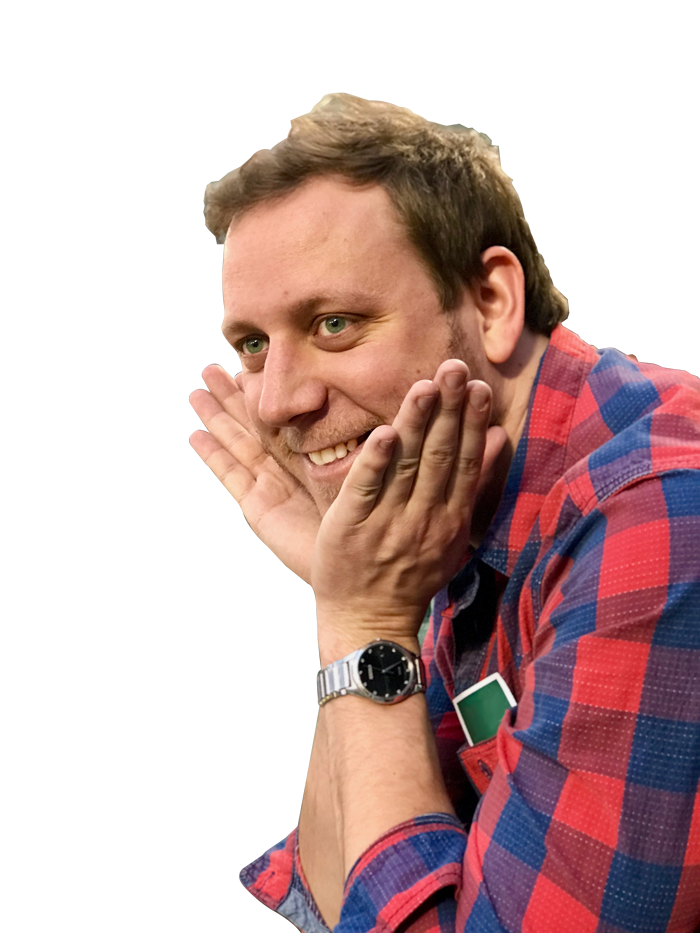
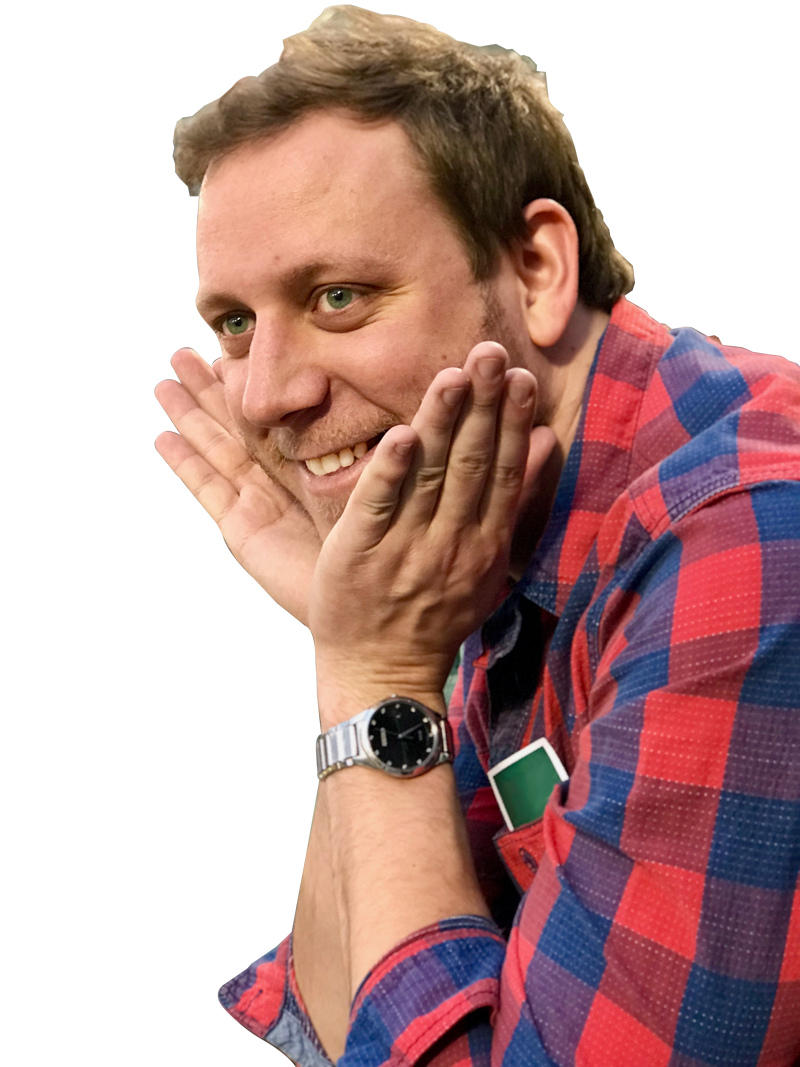
adding in about page photo

diff --git a/pages/about/index.vue b/pages/about/index.vue
@@ -1,0 +1,102 @@
+<template>
+    <div class="panel has-content" data-x-pos="-1" data-y-pos="0">
+        <HamburgerMenu />
+
+        <sectionHeader post-title="About Me" class-name="about" canvas="./animations/aboutcanvas"></sectionHeader>
+        <section class="block copy">
+            <div class="block block-width">
+                <p>Lorem ipsum dolor sit amet, consectetur adipiscing elit, sed do eiusmod tempor incididunt ut labore et dolore magna aliqua. Ut enim ad minim veniam, quis nostrud exercitation ullamco laboris nisi ut aliquip ex ea commodo consequat. Duis aute irure dolor in reprehenderit in voluptate velit esse cillum dolore eu fugiat nulla pariatur. Excepteur sint occaecat cupidatat non proident, sunt in culpa qui officia deserunt mollit anim id est laborum.</p>
+                <div class="about-me">
+                    <figure>
+                        <img src="~/assets/images/rob-erskine-is-cute.png" alt="Wow Rob Erskine is cute." class="foreground">
+                        <img src="~/assets/images/fenway-park.jpg" alt="" class="background">
+                    </figure>
+                    <figcaption>
+                        <span>Me, having the best time, watching the Boston Red Sox lose. (I am a hardcore Philadelhpia Phillies phan)</span>
+                    </figcaption>
+                </div>
+            </div>
+        </section>
+    </div>
+</template>
+
+<style lang="scss">
+section.block{
+    padding:4vw 2em;
+}
+
+div.block-width{
+    max-width: 1200px;
+    margin:0 auto;
+    overflow:hidden;
+}
+
+div.about-me{
+    background-size:cover;
+    //overflow:hidden;
+    padding:1.5em 3em;
+    position:relative;
+    max-width:40%;
+    width:100%;
+    float:right;
+    transform-style: preserve-3d;
+    -webkit-transform-style: preserve-3d;
+    transform: perspective(300px); 
+    -webkit-perspective: 300;
+    &:after{
+        content:"";
+        display:block;
+        padding-top:133.375%;
+    }
+    img{
+        position:absolute;
+        bottom:0px;
+        right:0px;
+        width:100%;
+    }
+    img.background{
+        top:0px;
+        left:0px;
+        z-index:1;
+    }
+    img.foreground{
+        width:90%;
+        z-index:2;
+        transform: translateZ(80px) translateY(25px) translateX(-25px) scale(0.685);
+    }
+}
+</style>
+
+<script>
+// components
+import sectionHeader from '~/components/SectionHeader.vue'
+import HamburgerMenu from '~/components/HamburgerMenu.vue'
+
+// query
+import posts from '~/queries/work/getWork.gql';
+
+export default {
+    components: {
+        HamburgerMenu,
+        sectionHeader,
+    },
+    apollo: {
+        entries: {
+            query: posts,
+            variables: {
+                "section": "work",
+                "orderBy": "postdate Desc",
+                "relatedTo": 25
+            }
+        }
+    }
+}
+
+if(process.client){
+    $('div.about-me').each(function(){
+        $(this).tilt({
+            maxTilt: 10
+        });
+    });
+}
+</script>

diff --git a/components/activity/activityItem.vue b/components/activity/activityItem.vue
@@ -1,11 +1,7 @@
 <template>
     <div class="m_activity-list-item" v-bind:style="{ backgroundColor: post.backgroundColor }">
-        <nuxt-link :to="post.uri">
-            <div>
-                <div v-html="post.richText" v-bind:style="{ color: post.fontColor }"></div>
-            </div>
-            <time v-bind:style="{ color: post.fontColor, borderTopColor: post.fontColor }">{{$moment(post.postDate).format("MMMM Do YYYY")}}</time>
-        </nuxt-link>
+        <div v-bind:style="{ color: post.fontColor}" v-html="post.richText"></div>
+        <time v-bind:style="{ color: post.fontColor, borderTopColor: post.fontColor }">{{$moment(post.postDate).format("MMMM Do YYYY")}}</time>
     </div>
 </template>
 
@@ -20,35 +16,39 @@
         transform: perspective(300px); 
         box-shadow:0 0 3vw rgba(0,0,0,0.1);
         -webkit-perspective: 300;
+        padding:1.5em 2em;
+        cursor:default;
         &:hover{
             box-shadow:0 0 3vw rgba(0,0,0,0.2);
             h4{
                 text-shadow: 0 0 1vw rgba(0,0,0,0.25);
             }
         }
-        a{
-            display:flex;
-            flex-wrap:wrap;
-            justify-content:flex-end;
-            text-decoration: none;
-            opacity:1;
-            padding:1.5em 2em;
-            transition:all 0.3s ease-in-out;
-            &:hover{
-                text-decoration: none;
-            }
+        div{
+            width:100%;
+            display:block;
+            color:inherit;
         }
-        h4{
+        a{
+            color:inherit;
+        }
+        p{
+            width:100%;
+            display:block;
+            font-size:1.5em;
+            line-height:1.375;
+        }
+        p{
             font-size:1.6em;
             line-height:1.1;
             transition:all 0.3s ease-in-out;
             transform: translateZ(66px) translateY(10px) scale(0.565);
         }
         time{
-            display:inline-block;
+            display:block;
             font-size:1.4em;
             padding-top:0.5em;
-            margin-top:0.5em;
+            margin-top:0.66em;
             border-top:1px solid;
         }
     }

diff --git a/src/scss/_variables.scss b/src/scss/_variables.scss
@@ -22,11 +22,11 @@ body{
     background-color:darken($light,10%);
 }
 
-@media (prefers-color-scheme: dark) {
-    body{
-        background-color: lighten($dark,10%);
-    }
-}
+// @media (prefers-color-scheme: dark) {
+//     body{
+//         background-color: lighten($dark,10%);
+//     }
+// }
 
 ::selection{
     background: $primary;

diff --git a/pages/activity/index.vue b/pages/activity/index.vue
@@ -35,6 +35,12 @@ section.block{
     }
 }
 
+@media all and (min-width: 700px){
+    section.block ul li{
+        width:47.5%;
+    }
+}
+
 </style>
 
 <script>
